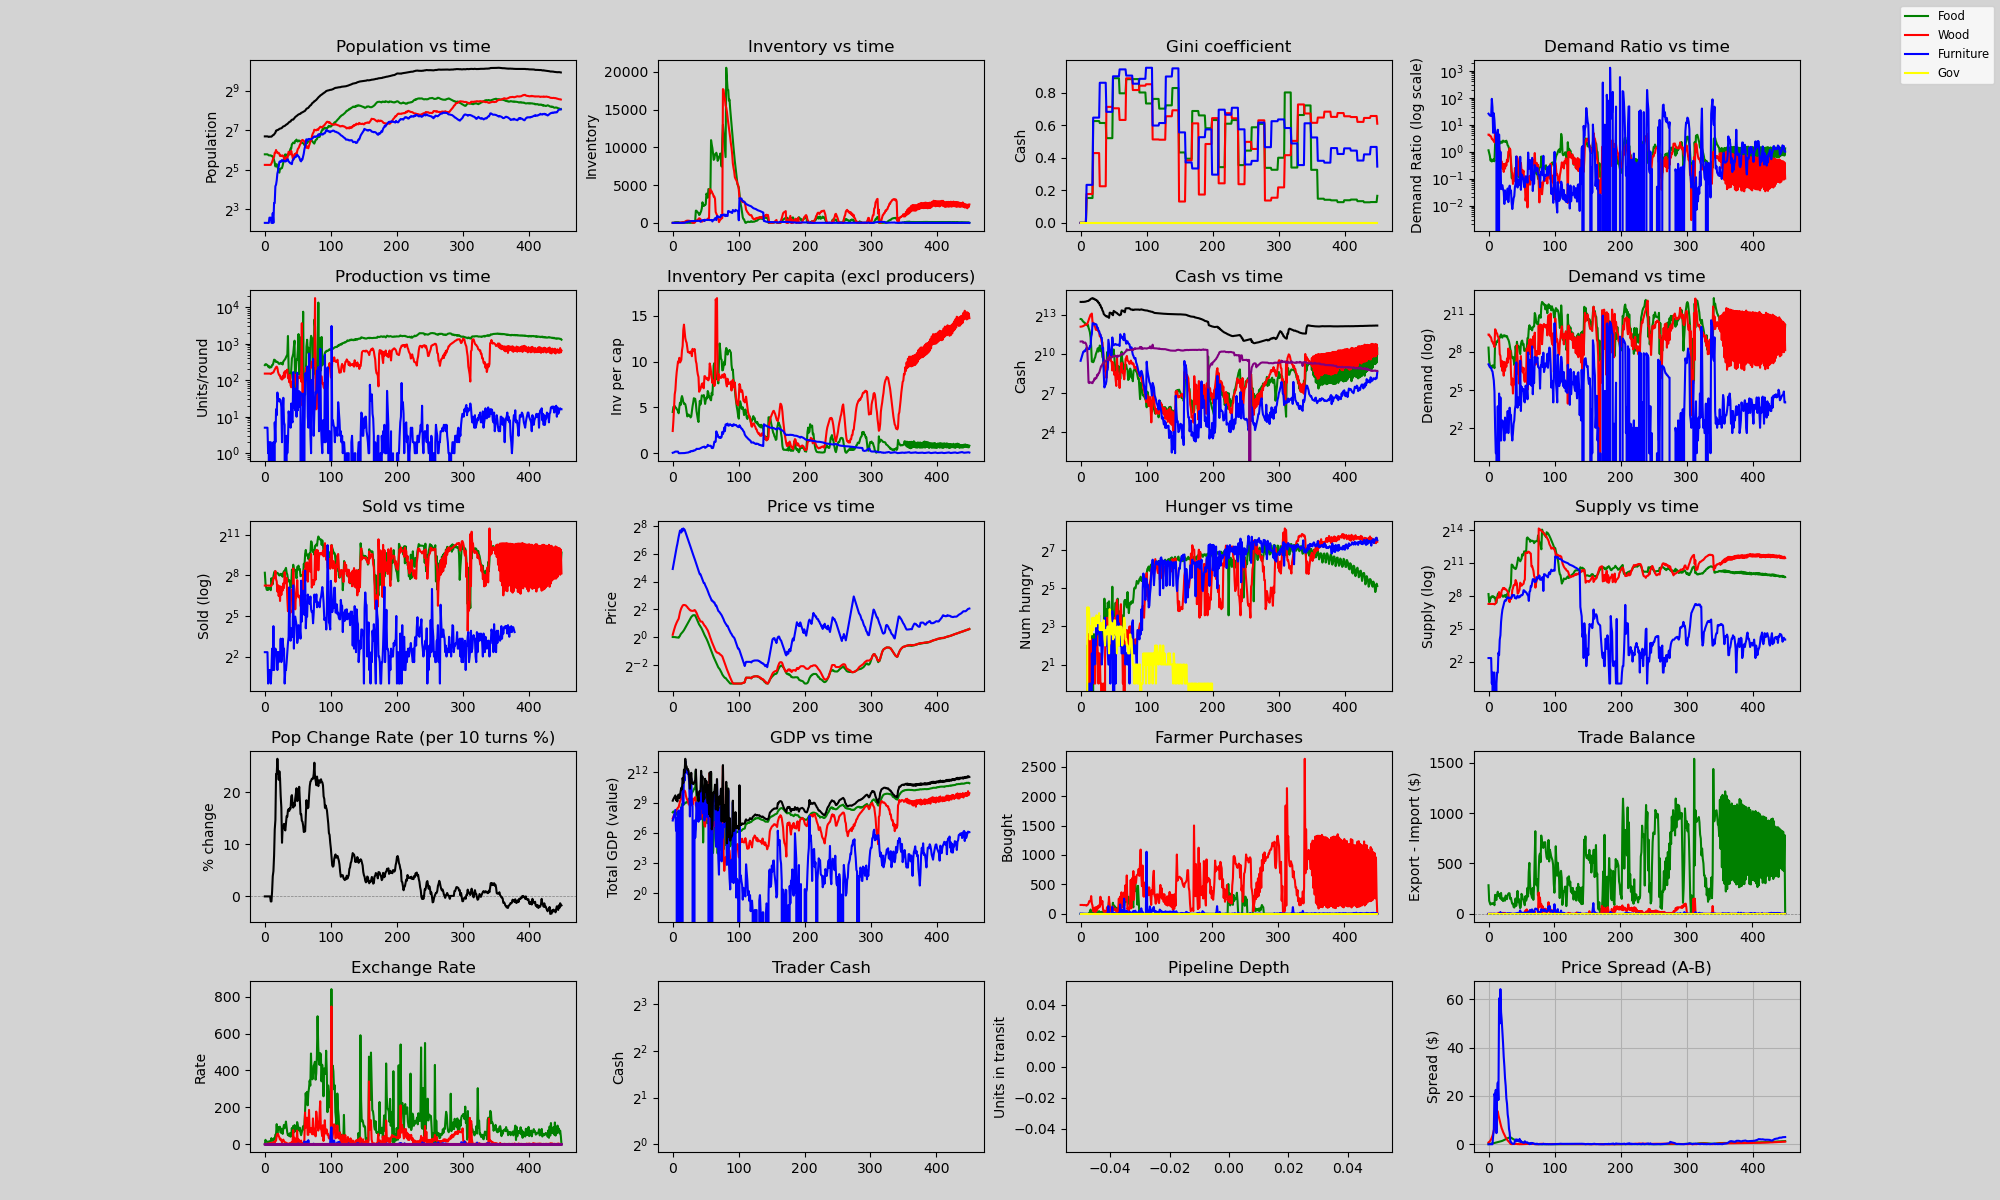
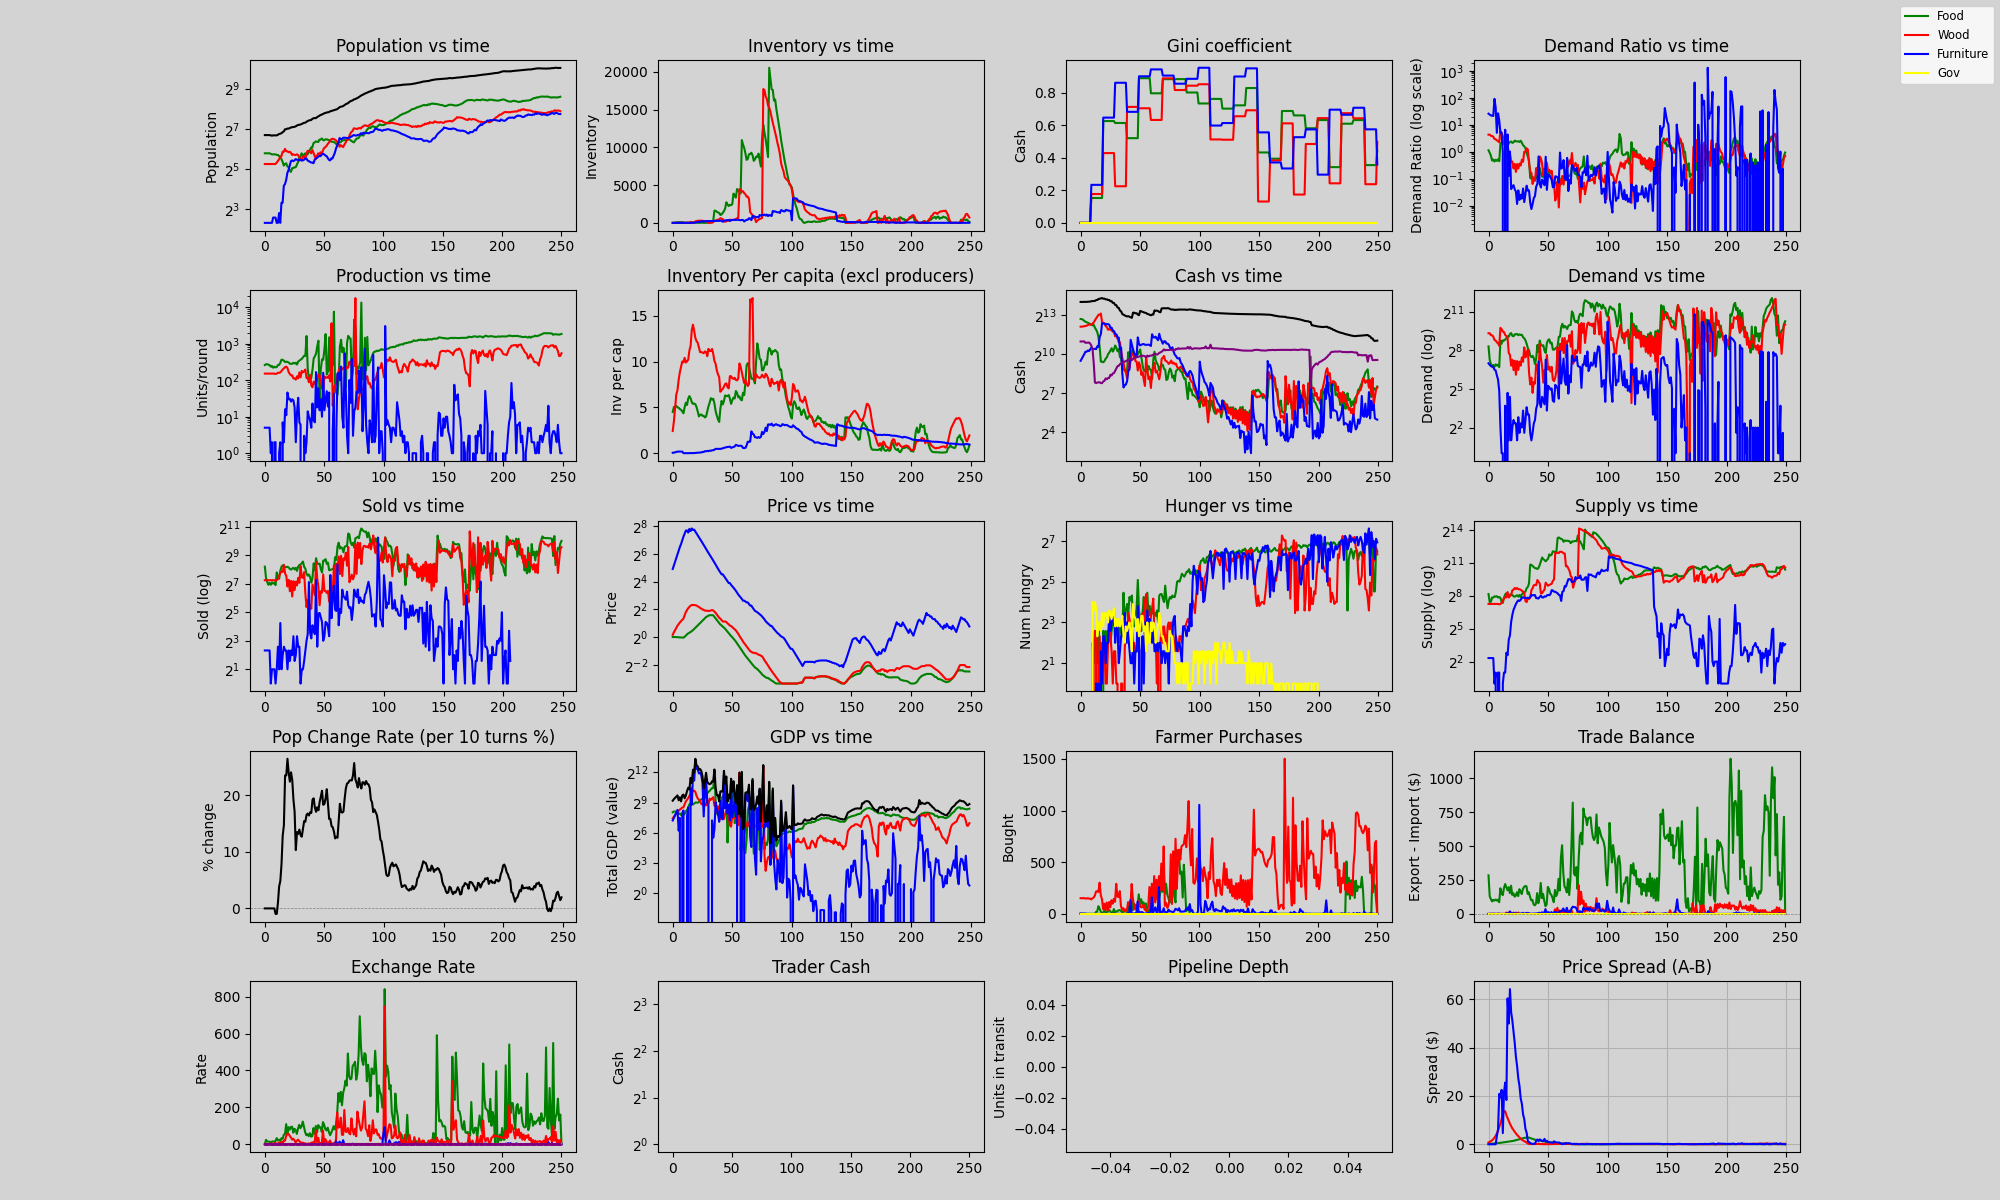
Cython benchmark: 1.01x speedup (negligible). Phase 2 cached random is the real win at 2x.

diff --git a/bench_cython.py b/bench_cython.py
@@ -1,0 +1,82 @@
+#!/usr/bin/env python3
+"""Benchmark 150 cycles with and without Cython."""
+import random
+import sys
+import time
+import os
+
+sys.path.insert(0, '.')
+from goods import Goods
+from logger import logInit
+
+TIME_STEPS = 150
+SEED = 42
+
+def run_bench(label, time_steps=TIME_STEPS):
+    import econsim_two_region as _tr
+    import region as _r
+    from random_cache import rand as _rand
+    random.seed(SEED)
+    _rand.__init__(seed=SEED)
+
+    rA = _r.Region('Region_A', t=0, number_of_agents=110,
+                   profession_distribution={Goods.food: 0.753, Goods.wood: 0.110, Goods.furniture: 0.037})
+    rB = _r.Region('Region_B', t=0, number_of_agents=110,
+                   profession_distribution={Goods.food: 0.50, Goods.wood: 0.35, Goods.furniture: 0.05})
+    rA.recipes[Goods.food]['production'] *= 2
+    rB.recipes[Goods.wood]['production'] *= 2
+    rA.destination_region = rB
+    rB.destination_region = rA
+    for trader in rA.agents:
+        if trader.is_trader: trader.destination_region = rB
+    for trader in rB.agents:
+        if trader.is_trader: trader.destination_region = rA
+
+    def process_transport(t, ra, rb):
+        for trader in ra.agents:
+            if trader.is_trader: trader._process_pipeline()
+        for trader in rb.agents:
+            if trader.is_trader: trader._process_pipeline()
+
+    t0 = time.time()
+    for t in range(1, time_steps + 1):
+        rA.step(t)
+        rB.step(t)
+        process_transport(t, rA, rB)
+        _tr.foreign_sell(t, rA, rB)
+        _tr.foreign_sell(t, rB, rA)
+    t1 = time.time()
+    dt = t1 - t0
+    print('%s (%d cycles): %.3fs  (%.1fms/turn)' % (label, time_steps, dt, (dt / time_steps) * 1000))
+    return dt
+
+# Purge cached imports
+for mod in ['region', 'region_core', 'econsim_two_region']:
+    sys.modules.pop(mod, None)
+
+logInit()
+t_cython = run_bench('WITH Cython')
+
+# Hide .so file
+so_path = os.path.join(os.path.dirname(os.path.abspath(__file__)), 'region_core.cpython-313-darwin.so')
+backup_path = so_path + '.bak'
+if os.path.exists(so_path):
+    os.rename(so_path, backup_path)
+
+for mod in ['region', 'region_core', 'econsim_two_region']:
+    sys.modules.pop(mod, None)
+
+logInit()
+t_pure = run_bench('WITHOUT Cython')
+
+# Restore
+if os.path.exists(backup_path):
+    os.rename(backup_path, so_path)
+
+print()
+speedup = t_pure / t_cython if t_cython > 0 else 1.0
+print('Speedup: %.2fx' % speedup)
+if t_cython < t_pure:
+    print('Cython saved %.3fs' % (t_pure - t_cython))
+else:
+    print('Cython overhead: %.3fs' % (t_cython - t_pure))
